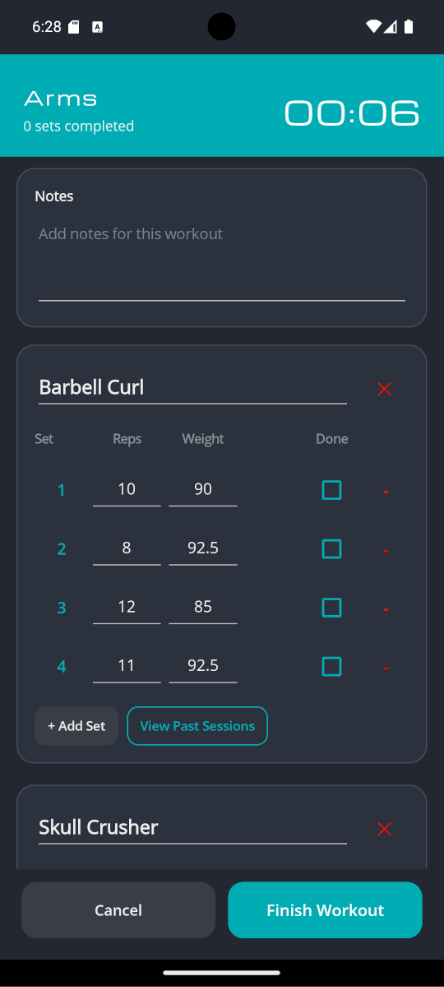
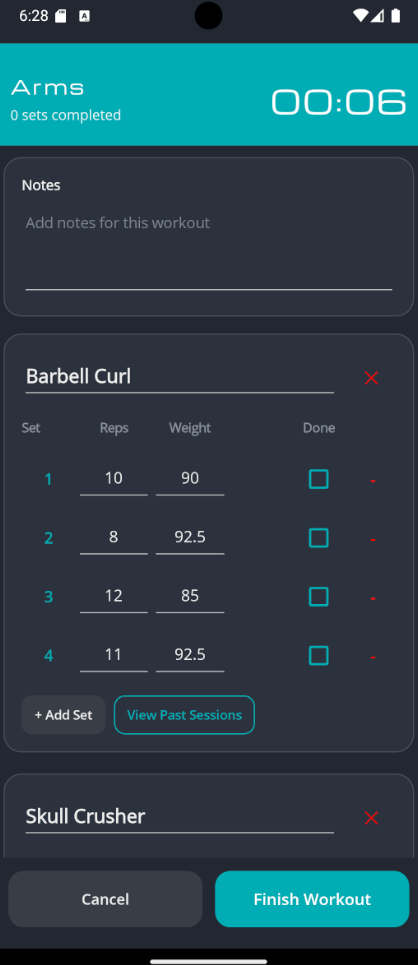
Trim phone screenshot edges, previews fill their cards

diff --git a/styles.css b/styles.css
@@ -660,13 +660,13 @@ html { scrollbar-color: #2C3D34 var(--ground); scrollbar-width: thin; }
 .teaser-grid { display: grid; gap: 1px; background: var(--line); border: 1px solid var(--line); margin-bottom: 2.5rem; }
 @media (min-width: 700px) { .teaser-grid { grid-template-columns: repeat(3, minmax(0, 1fr)); } }
 .teaser {
-  display: grid; gap: 0.4rem; align-content: start;
-  padding: 1.25rem; background: var(--ground); text-decoration: none;
+  display: grid; gap: 0.35rem; align-content: start;
+  padding: 0 0 1.35rem; background: var(--ground); text-decoration: none;
   transition: background 0.3s var(--ease);
 }
 .teaser:hover { background: var(--card); }
-.teaser-shot { display: block; overflow: hidden; background: var(--card); margin-bottom: 0.8rem; aspect-ratio: 4 / 3; }
-.teaser-shot img { width: 100%; height: 100%; object-fit: cover; object-position: top center; transition: transform 0.6s var(--ease); }
+.teaser-shot { display: block; overflow: hidden; background: var(--card); margin-bottom: 1.1rem; aspect-ratio: 16 / 10; }
+.teaser-shot img { width: 100%; height: 100%; object-fit: cover; object-position: 50% 15%; transition: transform 0.6s var(--ease); }
 .teaser:hover .teaser-shot img { transform: scale(1.04); }
 .teaser-meta {
   font-size: var(--fs-label); font-weight: 600; letter-spacing: 0.14em;
@@ -789,3 +789,5 @@ html { scrollbar-color: #2C3D34 var(--ground); scrollbar-width: thin; }
   transition: color 0.25s var(--ease), border-color 0.25s var(--ease);
 }
 .page-links a:hover { color: var(--brass); border-color: var(--brass); }
+/* image runs edge to edge; only the labels are inset */
+.teaser-meta, .teaser-name { padding-inline: 1.25rem; }

diff --git a/portfolio.html b/portfolio.html
@@ -206,13 +206,13 @@
       <article class="project reveal">
         <div class="project-media project-media-shots">
           <button type="button" class="zoom" aria-label="View larger: home screen">
-            <img src="assets/work/workout-home.png" alt="Workout Tracker home screen." loading="lazy" width="448" height="988">
+            <img src="assets/work/workout-home.png" alt="Workout Tracker home screen." loading="lazy" width="422" height="966">
           </button>
           <button type="button" class="zoom" aria-label="View larger: live session">
-            <img src="assets/work/workout-session.png" alt="A live workout in progress." loading="lazy" width="444" height="987">
+            <img src="assets/work/workout-session.png" alt="A live workout in progress." loading="lazy" width="418" height="965">
           </button>
           <button type="button" class="zoom" aria-label="View larger: statistics">
-            <img src="assets/work/workout-stats.png" alt="Statistics screen." loading="lazy" width="448" height="988">
+            <img src="assets/work/workout-stats.png" alt="Statistics screen." loading="lazy" width="416" height="964">
           </button>
         </div>
         <div class="project-body">

diff --git a/index.html b/index.html
@@ -125,7 +125,7 @@
           <span class="teaser-name">Movement Unlimited</span>
         </a>
         <a class="teaser" href="portfolio.html#mobile">
-          <span class="teaser-shot"><img src="assets/work/workout-home.png" alt="Workout Tracker home screen." loading="lazy" width="448" height="988"></span>
+          <span class="teaser-shot"><img src="assets/work/workout-home.png" alt="Workout Tracker home screen." loading="lazy" width="422" height="966"></span>
           <span class="teaser-meta">Mobile app</span>
           <span class="teaser-name">Workout Tracker</span>
         </a>
